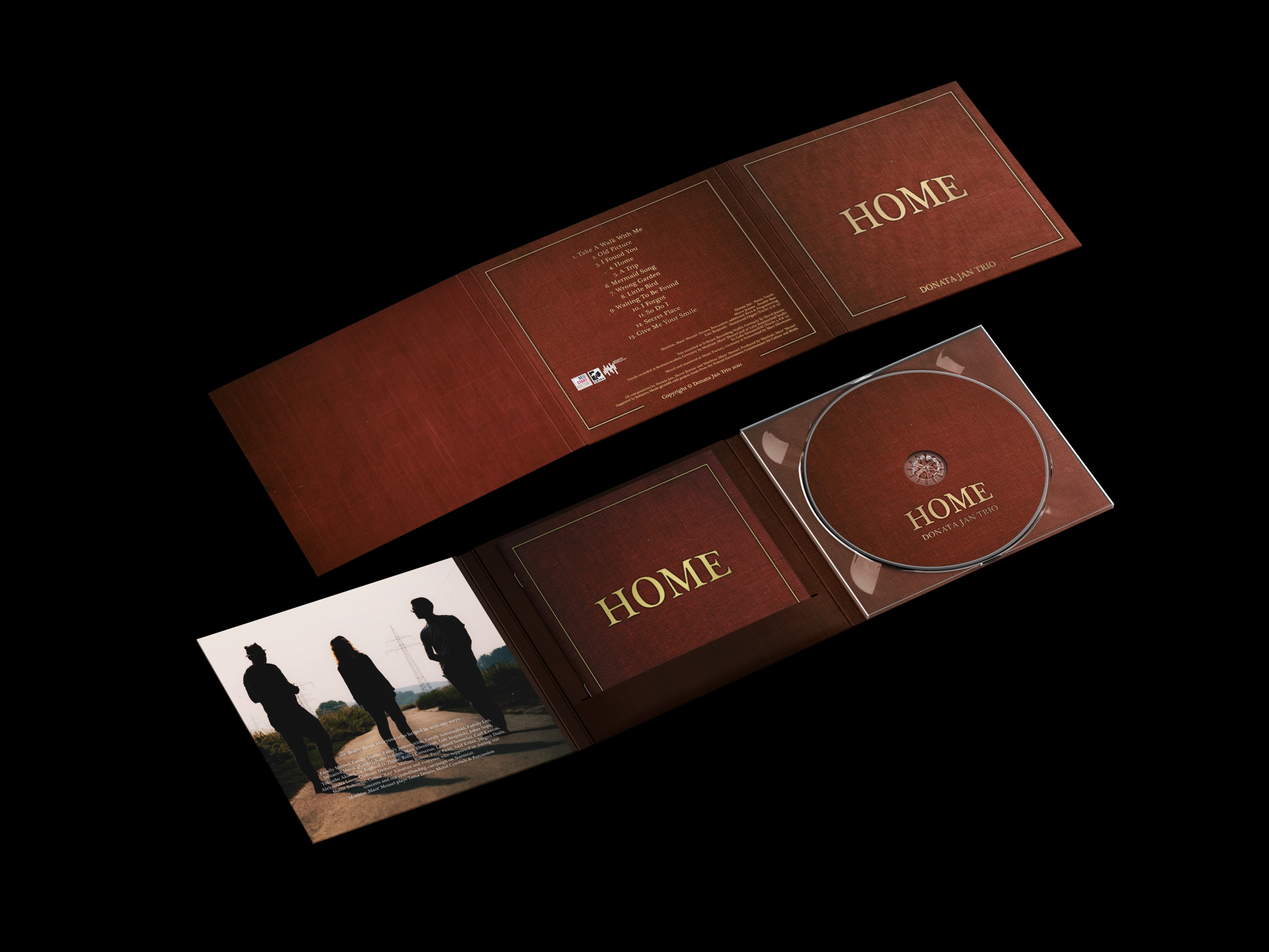
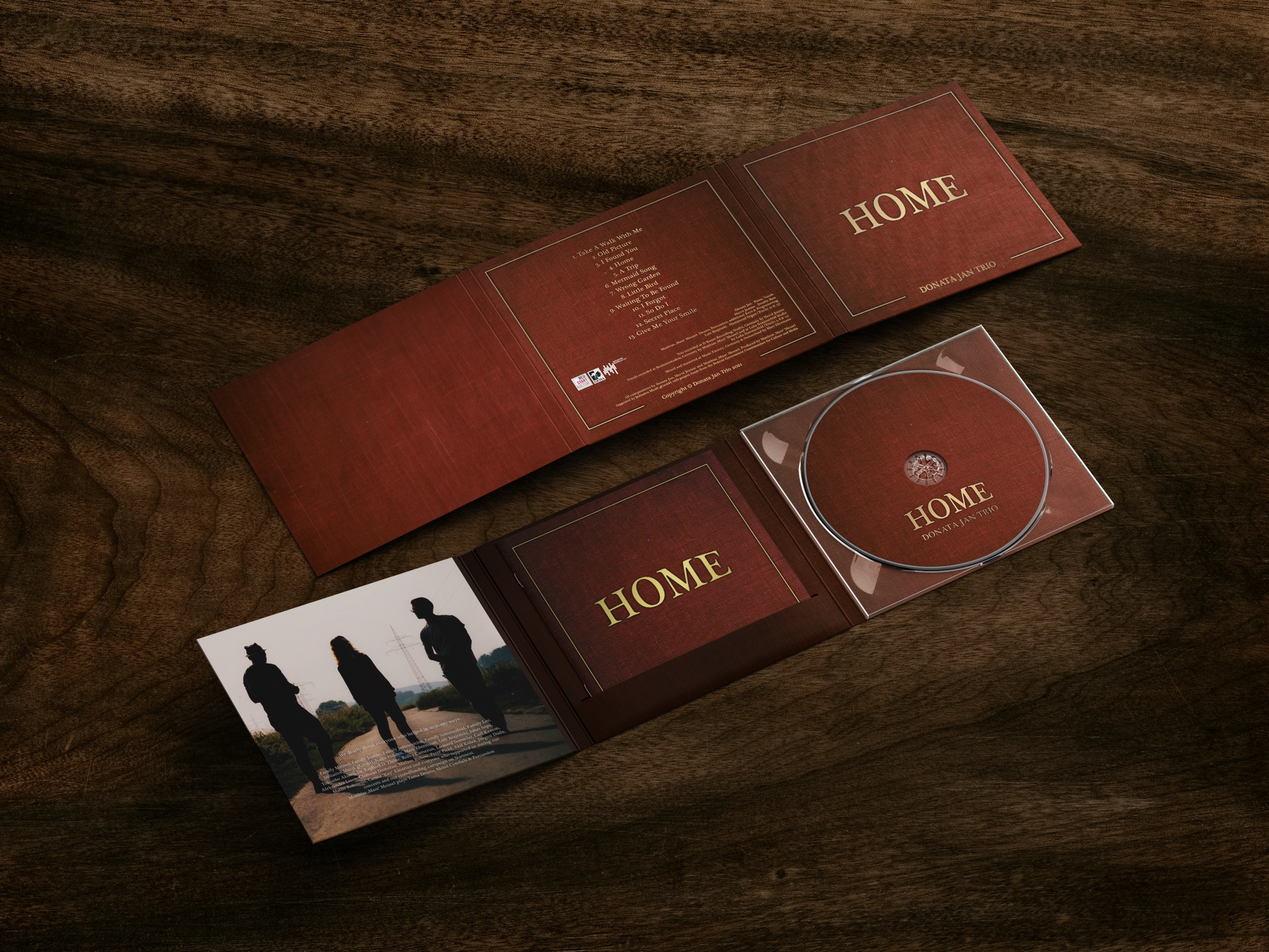
Replace the first Donata Jan Trio image with the wood mockup
Use the new digipak shot as the lead image on the project page and in the listing preview.

diff --git a/lib/projectsData.ts b/lib/projectsData.ts
@@ -83,7 +83,7 @@ export const PROJECT_DETAILS: ProjectDetail[] = [
       {
         type: "image",
         src: "/images/projects/donata_jan_trio/donata_cover_mockup.jpg",
-        alt: "Donata Jan Trio — HOME digipak and CD mockup",
+        alt: "Donata Jan Trio — HOME digipak and CD mockup on wood",
       },
       {
         type: "image",
